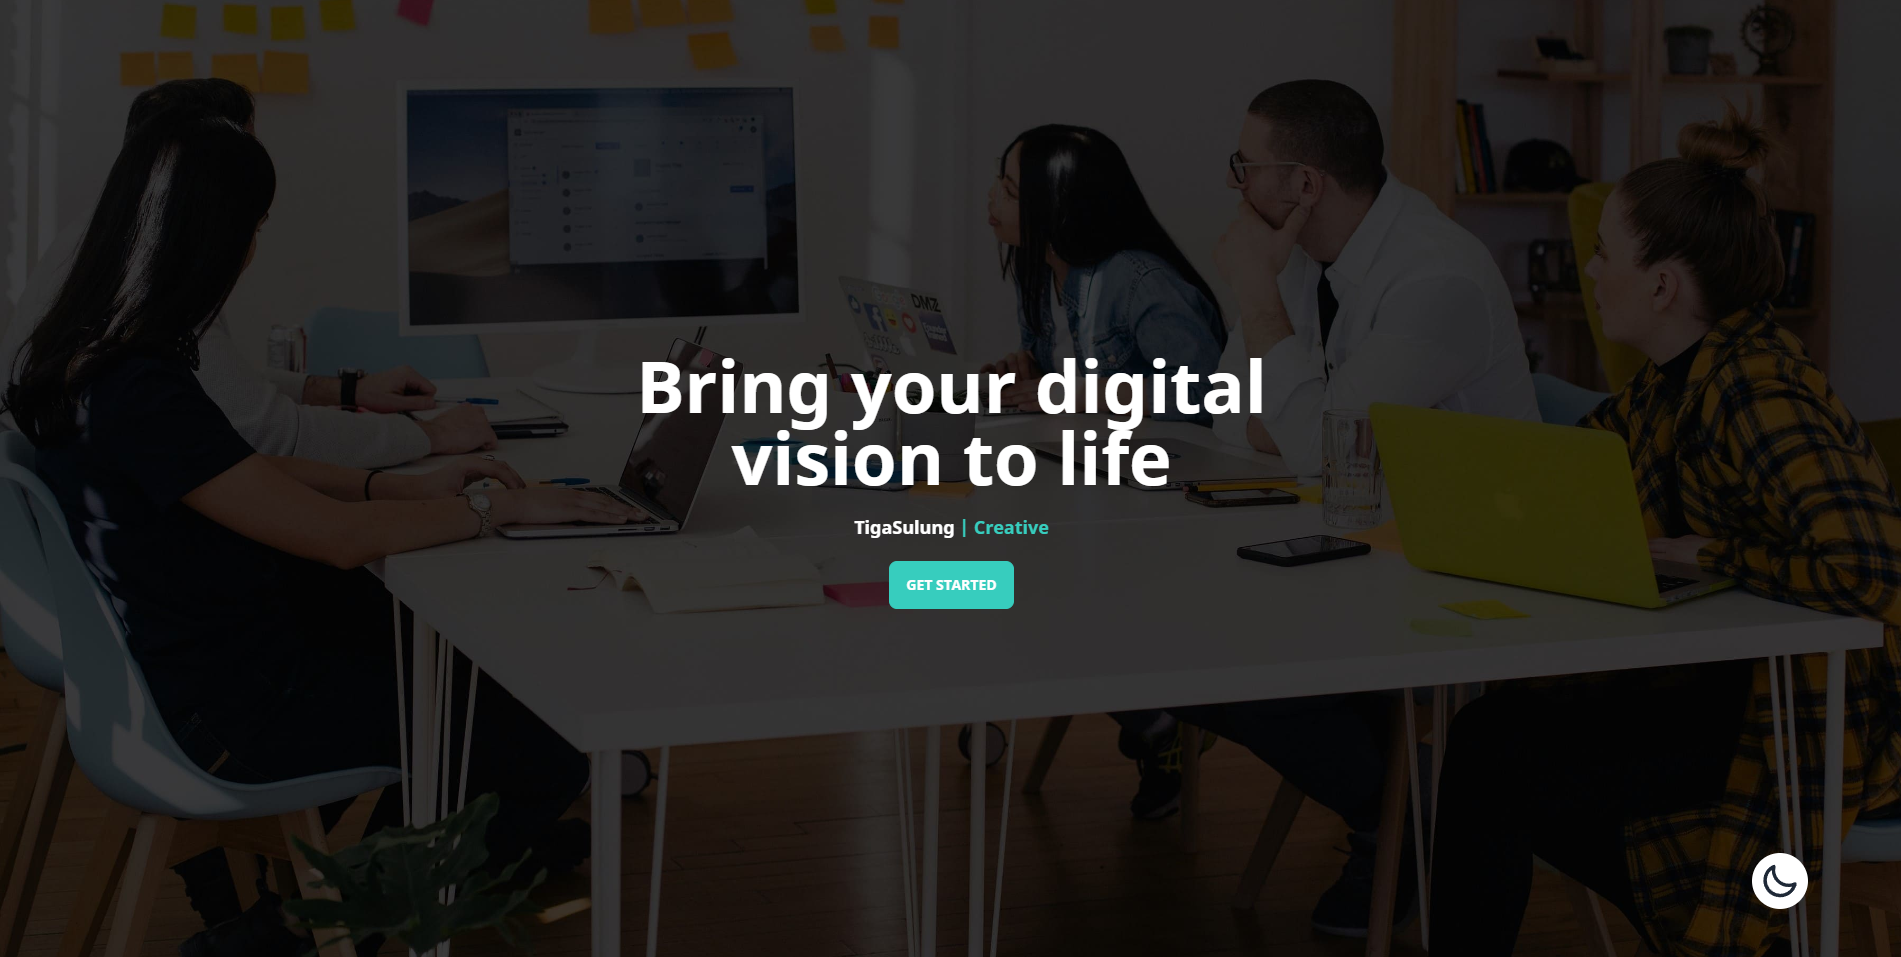
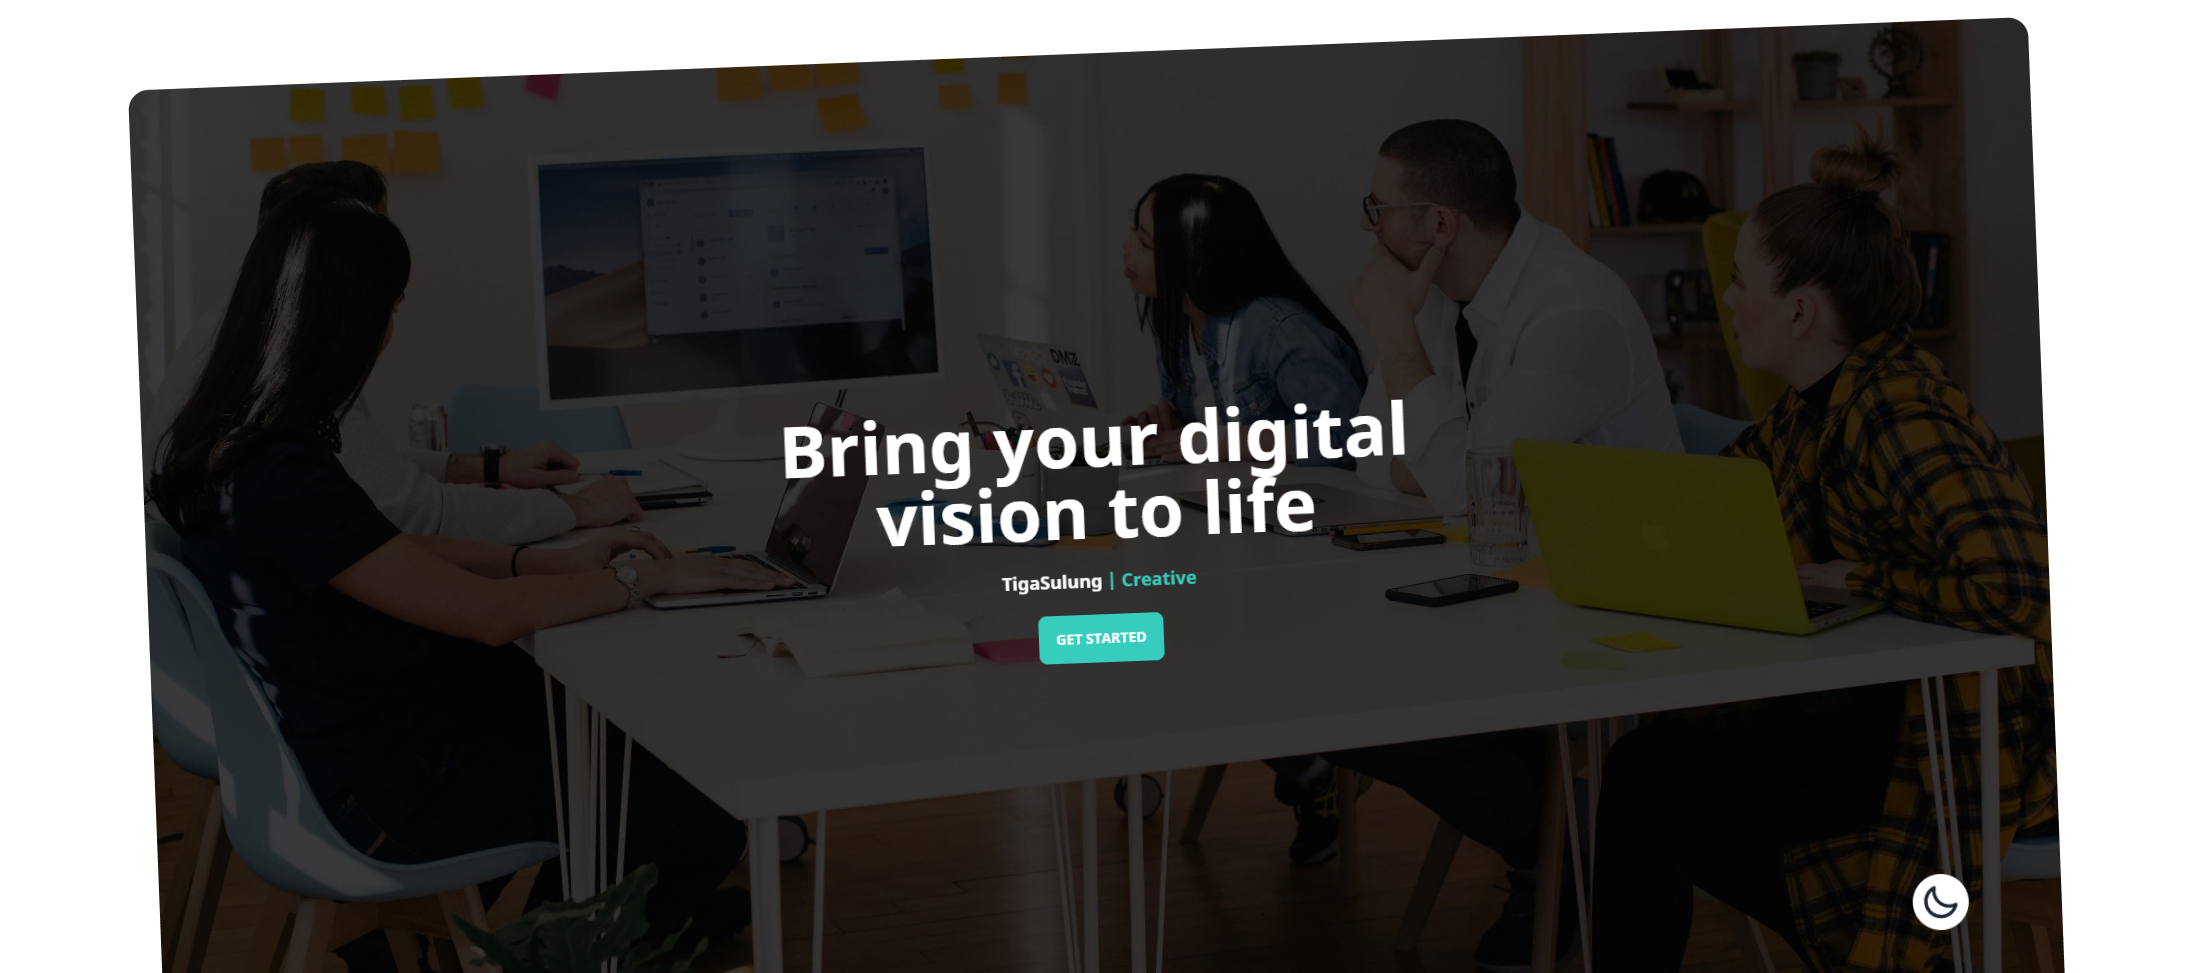
🐞 fix: photo in recent project

diff --git a/data/index.ts b/data/index.ts
@@ -88,7 +88,7 @@ export const projects = [
         id: 2,
         title: "POS website",
         des: "website ini adalah salah satu website point of sales karya saya yang sudah digunakan oleh salah satu bakery shop di semarang untuk mengelola keuangan mereka",
-        img: "/POS.JPG",
+        img: "/POS.jpg",
         iconLists: ["/laravel.png", "/re.svg", "/tail.svg", "/inertia.jpg", "/js.png"],
         link: "https://github.com/ryokf/pos-app",
     },
@@ -104,7 +104,7 @@ export const projects = [
         id: 4,
         title: "Tigasulung official website",
         des: " website resmi TigaSulung Creative, creative agency yang berpusat di kota Semarang. dalam projek ini, saya bertanggungjawab penuh membangun website tersebut.",
-        img: "/Mask Group.png",
+        img: "/tigasulung.png",
         iconLists: ["/tail.svg","js.png", "/gsap.svg"],
         link: "https://tigaslg.github.io/",
     },
